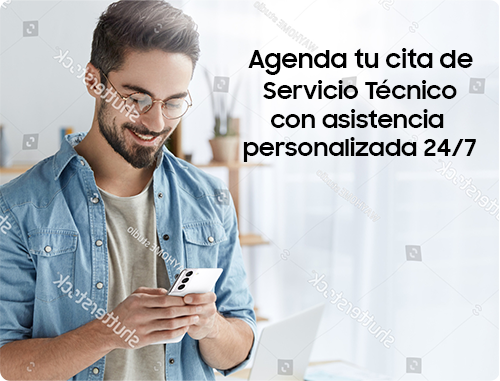
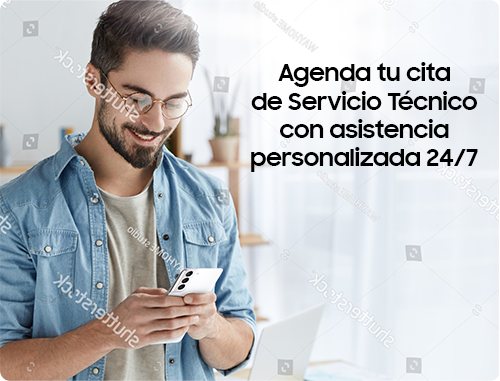
slides update

Changed region(s): [[0.48, 0.1155, 0.96, 0.4619]]

diff --git a/index.html b/index.html
@@ -30,8 +30,8 @@
     <!-- Carrusel -->
     <div class="swiper-container mySwiper">
         <div class="swiper-wrapper">
-            <div class="swiper-slide"><img src="images/slide1.jpg" alt=""></div>
-            <!-- <div class="swiper-slide"><img src="images/slide2.jpg" alt=""></div> -->
+            <div class="swiper-slide"><img src="images/slide1.png" alt=""></div>
+            <div class="swiper-slide"><img src="images/slide2.png" alt=""></div>
             <div class="swiper-slide"><img src="images/slide3.png" alt=""></div>
             <div class="swiper-slide"><img src="images/slide4.png" alt=""></div>
         </div>
@@ -49,11 +49,11 @@
         <div class="box-container">
 
             <div class="box">
-                <a href="#" target="_blank"><img src="images/community.png" alt=""></a>
+                <a href="#" target="_blank"><img src="images/support.png" alt=""></a>
             </div>
 
             <div class="box">
-                <a href="#" target="_blank"><img src="images/support.png" alt=""></a>
+                <a href="#" target="_blank"><img src="images/community.png" alt=""></a>
             </div>
 
             <div class="box">
@@ -83,8 +83,9 @@
                 </div>
                 <div class="answer">
                     <p>
-                        <b>1. </b> Entra a Samsung Members > Selecciona "Ver más" en la sección de "Beneficios".
-                        <br><b>2. </b>¡Listo! Elige el beneficio que más te guste.
+                        <b>1. </b>Entra a Samsung Members.
+                        <br><b>2. </b>Podrás encontrarlos en el banner principal, seleccionando uno de los tabs o ingresando en la opción "Ver más" de la sección de "Beneficios".
+                        <br><b>3. </b>¡Listo! Elige el beneficio que más te guste.
                         <!-- <br><b>3. </b>Selecciona "Ajustes"
                         <br><b>4. </b>Activa la casilla "Información de marketing" -->
                     </p>

diff --git a/style.css b/style.css
@@ -130,7 +130,7 @@ section {
 .faqs-title {
     font-family: 'Samsung Sharp Sans', sans-serif;
     font-size: 3rem;
-    margin: 2rem 0rem;
+    margin: .7rem 0 2rem 0rem;
 }
 
 .question {
